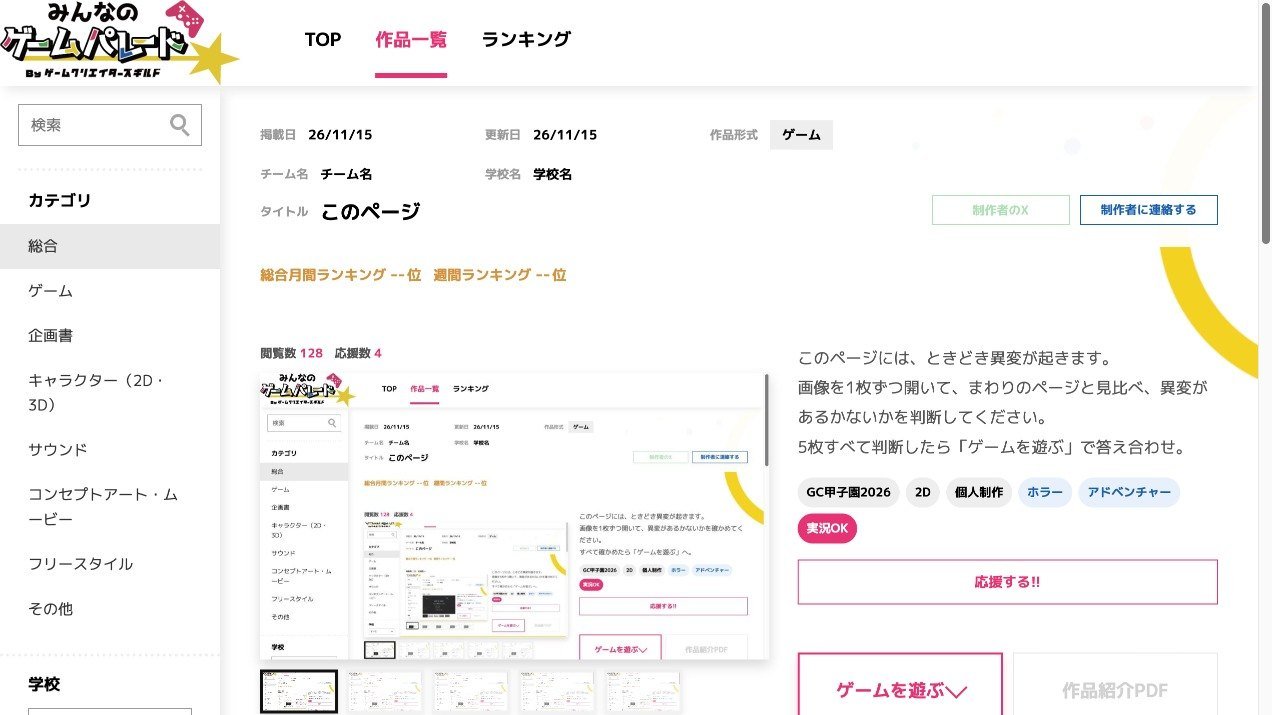
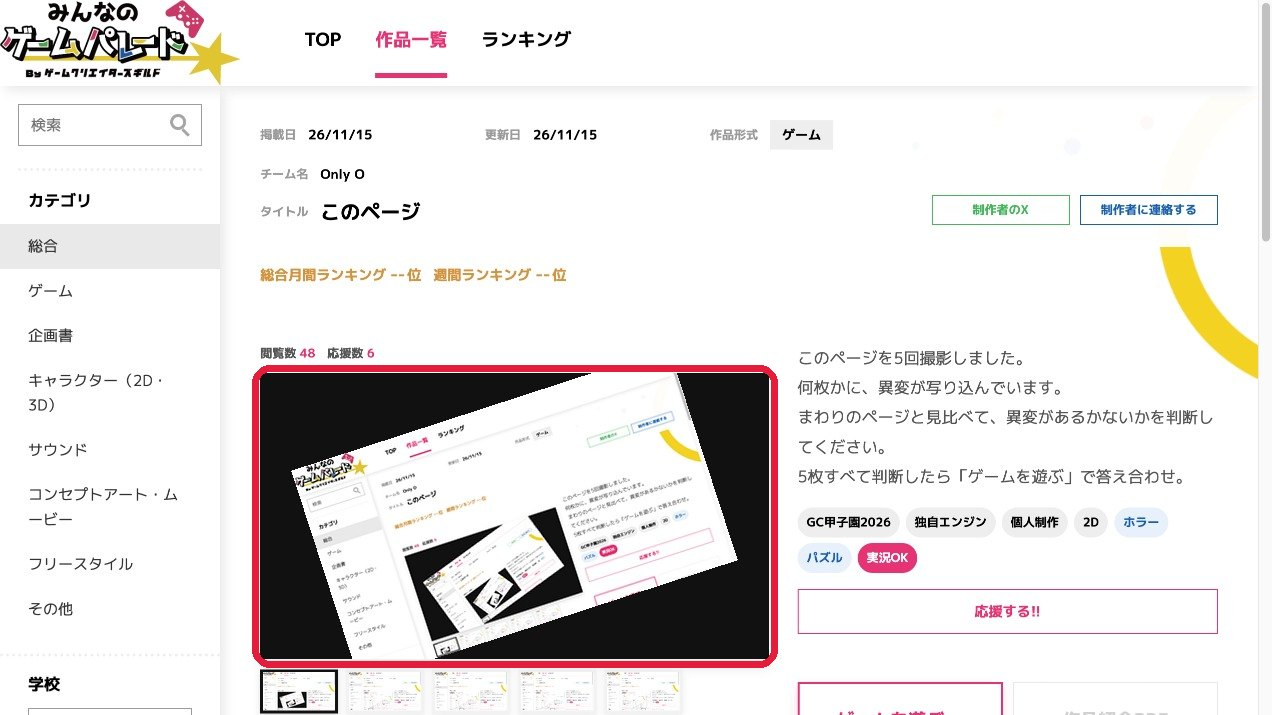
異変の並びを易しい順に変更し、画像を本番相当に差し替え

diff --git a/index.html b/index.html
@@ -157,11 +157,11 @@
   const WORK_URL = "https://gameparade.creators-guild.com/works/";
 
   const ITEMS = [
-    { anomaly: false, text: "異変はありません。まわりのページと同じです。" },
-    { anomaly: true,  text: "左のカテゴリに「このページ」という項目が増えて、選ばれています。本物のページには、この項目はありません。" },
-    { anomaly: false, text: "異変はありません。2枚目を見たあとで、ここを疑った人も多いはずです。" },
-    { anomaly: true,  text: "ページ全体が左右反転しています。カテゴリは右に移り、画像と説明文も入れ替わっています。" },
     { anomaly: true,  text: "画像の中のページが、1段ごとに回転しながら奥へ沈んでいます。" },
+    { anomaly: false, text: "異変はありません。1枚目を見たあとで、ここを疑った人も多いはずです。" },
+    { anomaly: true,  text: "左のカテゴリに「このページ」という項目が増えて、選ばれています。本物のページには、この項目はありません。" },
+    { anomaly: true,  text: "右上の黄色い弧や、背景に散らばる点が消えています。ページの飾りが、まるごとなくなっています。" },
+    { anomaly: true,  text: "画像の中のページの、そのまた中のページだけが左右反転しています。カテゴリが右にあります。" },
   ];
   const MESSAGES = {
     5: "すべて見抜きました。このページは、あなたのことを覚えました。",
